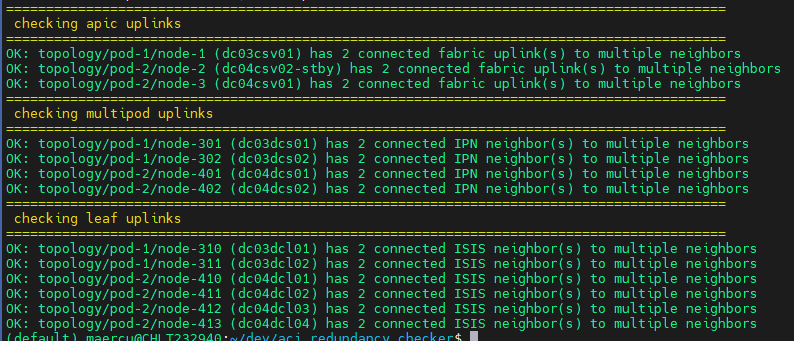
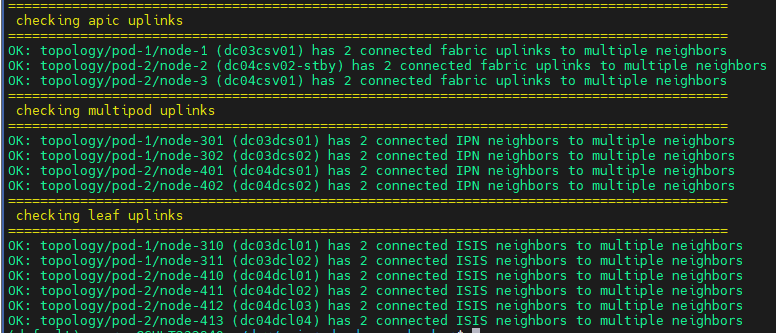
update

diff --git a/test_redundancy.py b/test_redundancy.py
@@ -38,7 +38,9 @@ def check_neighbor_redundancy(molist, check_field, regex=False):
     key = list(molist[0].keys())[0]
     for mo in molist:
         if regex:
-            redundancy.add(re.match(regex[0], mo[key]["attributes"][check_field]).group(regex[1]))
+            redundancy.add(
+                re.match(regex[0], mo[key]["attributes"][check_field]).group(regex[1])
+            )
         else:
             redundancy.add(mo[key]["attributes"][check_field])
     return len(redundancy) > 1
@@ -54,7 +56,7 @@ def check_status(moclass):
             "ok_cnt": 2,
             "check_field": "sysDesc",
             "re": False,
-            "msg_suffix": "fabric uplink(s)",
+            "msg_suffix": "fabric uplinks",
         },
         "ospfAdjEp": {
             "title": "checking multipod uplinks",
@@ -63,7 +65,7 @@ def check_status(moclass):
             "ok_cnt": 1,
             "check_field": "dn",
             "re": (r".*/(adj-\d+.\d+.\d+.\d+)", 1),
-            "msg_suffix": "IPN neighbor(s)",
+            "msg_suffix": "IPN neighbors",
         },
         "isisAdjEp": {
             "title": "checking leaf uplinks",
@@ -72,7 +74,7 @@ def check_status(moclass):
             "ok_cnt": 2,
             "check_field": "name",
             "re": False,
-            "msg_suffix": "ISIS neighbor(s)",
+            "msg_suffix": "ISIS neighbors",
         },
     }
 
@@ -108,7 +110,7 @@ def check_status(moclass):
             )
         else:
             print_msg(
-                f"{node} ({dn2hostname[node]}) has {info['cnt']} connected {settings[moclass]['msg_suffix']}, different neighbors: {nei_red}",
+                f"{node} ({dn2hostname[node]}) uplinks: {info['cnt']}, different neighbors: {nei_red}",
                 False,
             )
 
